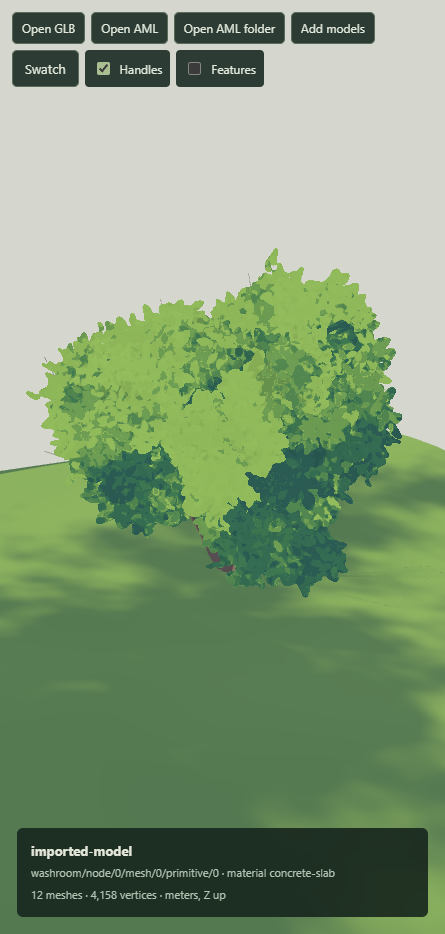
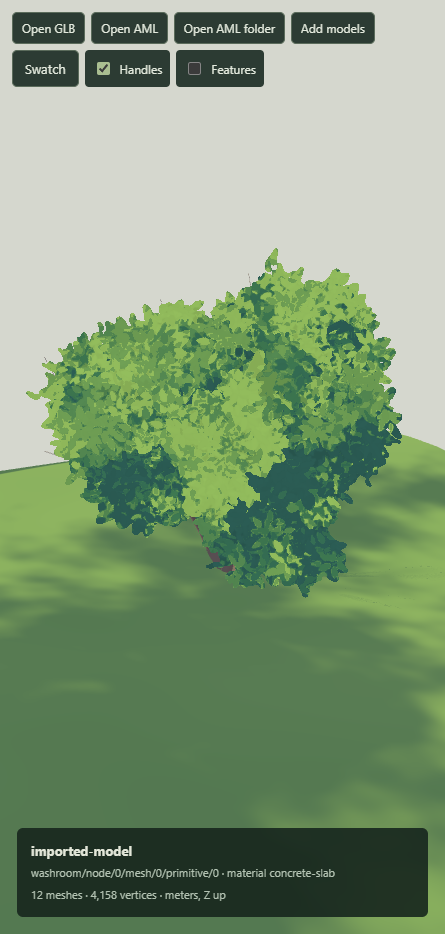
Checkpoint: painted shrub prototype candidates with final reference renders
The clump candidate's reference renders now show its final look (leaf normals
at strength 1.5, bands offset -0.05); the hull candidate keeps strength 1 and
offset 0.1, which the roadmap now records.

Changed region(s): [[0.0876, 0.2794, 0.8764, 0.5899], [0.5843, 0.5589, 0.7303, 0.621]]

diff --git a/docs/plans/tree-item-roadmap.md b/docs/plans/tree-item-roadmap.md
@@ -565,12 +565,14 @@ is a rough base mesh shaded through a stroke-painted leaf normal map, with leafy
 - **Prototype candidate:** the sprig shrub with its 12 mass-model clumps (`fixtures/sprig-shrub-clumps.tree.json`,
   clumps only at 0.92 of their size) as the base mesh, the 16-leaf brush map at a 0.6 m tile, fuzz cards 0.3 m at 14 per
   meter of edge, bark kept; the leaf normals tipped at strength 1.5 and the bands offset by -0.05 so the lit side spreads
-  over the upper bands (the reference renders predate this and use 1 and 0.1). Rebuilt and pictured by `tests/painted-mass-shrub-browser.mjs`; reference renders in
+  over the upper bands. Rebuilt and pictured by `tests/painted-mass-shrub-browser.mjs`; reference renders in
   `painted-mass/`. Known gaps: ambient occlusion's pass does not draw these shaders (off for now); about 9,600 fuzz
   anchors, most never on the outline (a coarser mesh for the fuzz would cut them); the sprigs' leaves are hidden.
 - **Second candidate:** the same shrub with its one canopy hull (the limbs' shrink-wrap, 512 triangles) as the base
   instead of its clumps (`fixtures/sprig-shrub-hull.tree.json`, the hull drawn whole at the near level), all else as the
-  first; about 1,100 fuzz anchors. Same script; reference renders `painted-mass/hull-candidate-*.png`.
+  first except its leaf normals at strength 1 and bands offset 0.1 (`STRENGTH=1 OFFSET=0.1`: the clump candidate's
+  stronger values darken this one); about 1,100 fuzz anchors. Same script; reference renders
+  `painted-mass/hull-candidate-*.png`.
 - **Performance fallback, if needed:** bake the plant's normals (not colours, so sun and palette stay live) from every
   angle around it, as a 360-degree strip, and slide it to match the view on one camera-facing card (an impostor). Exact
   only for round plants; an octahedral grid of baked views extends it to any shape and viewing height. Best as the far
